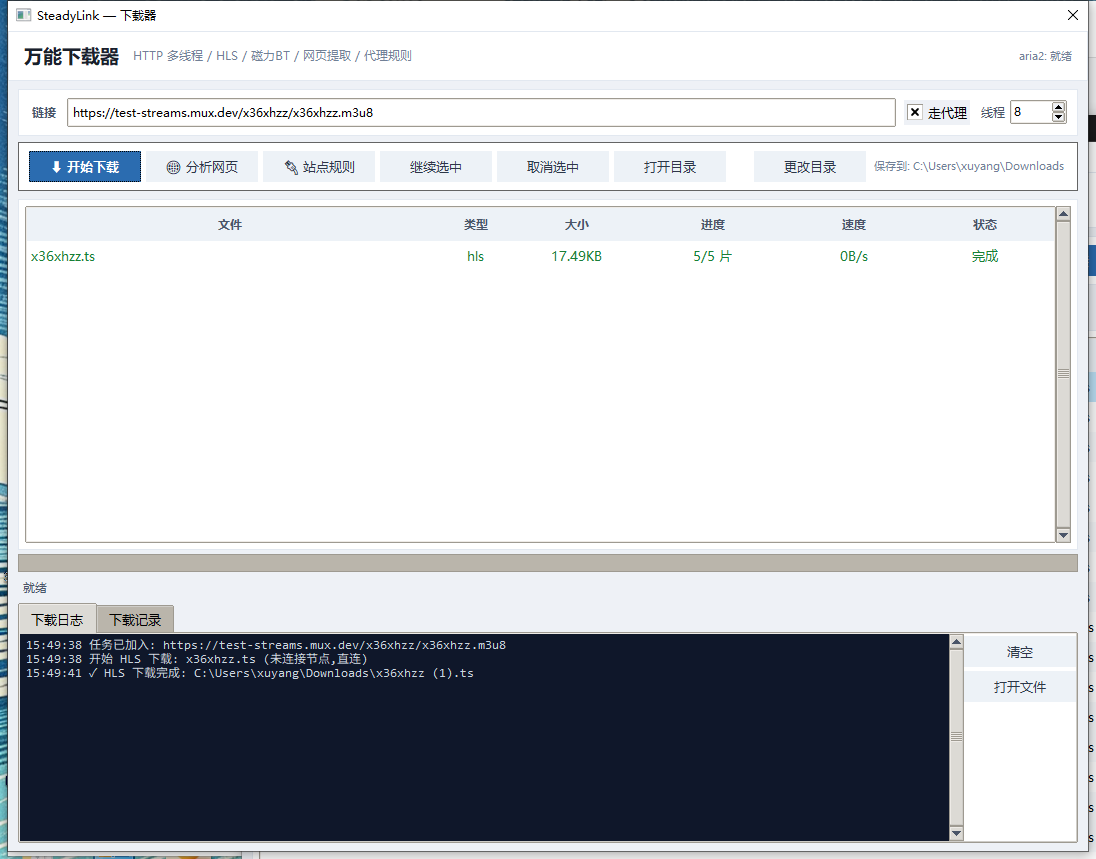
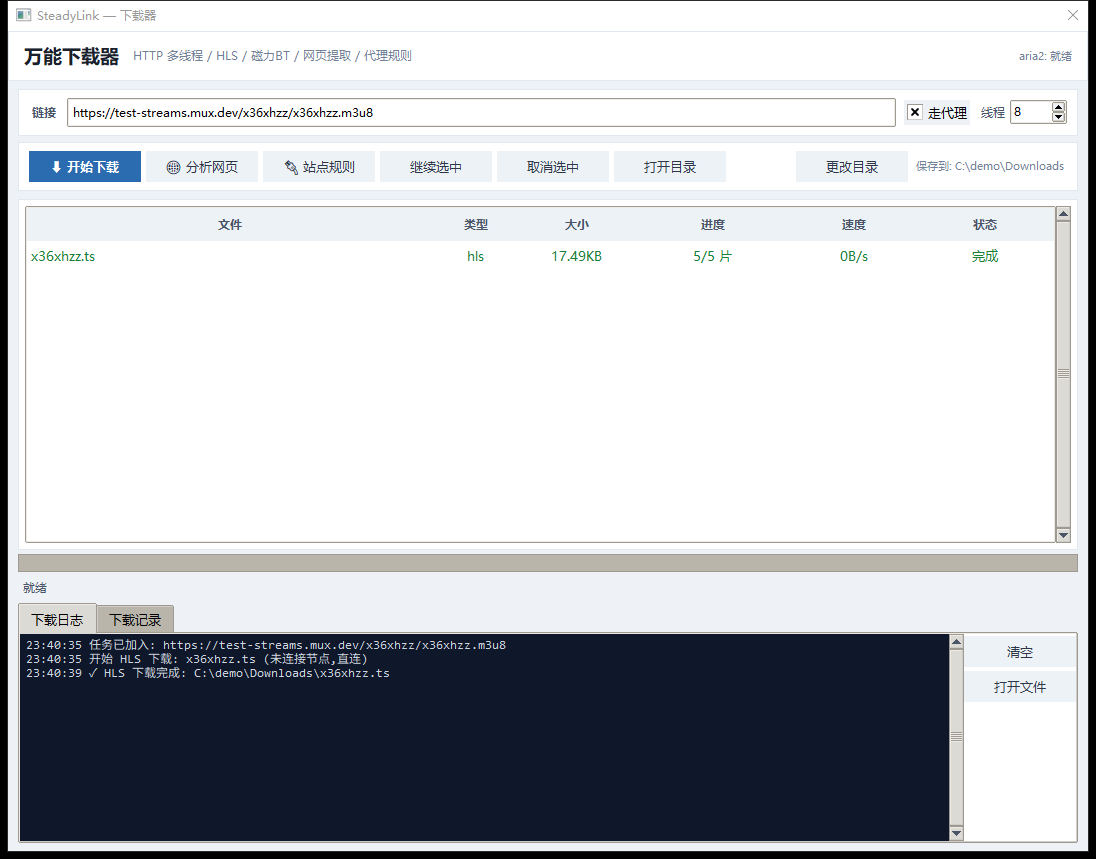
docs: 使用脱敏截图（示例节点数据）；fix: 下载目录不可用时回退到用户 Downloads

Changed region(s): [[0.0, 0.0, 1.0, 1.0], [0.7135, 0.1816, 0.8996, 0.2119], [0.1861, 0.7567, 0.3723, 0.787]]

diff --git a/steadylink.py b/steadylink.py
@@ -1332,7 +1332,11 @@ class DownloaderWindow(tk.Toplevel):
         self.worker = None
         self._last_save = 0
         self.save_dir = app.cfg.get('dl_dir') or os.path.join(os.path.expanduser('~'), 'Downloads')
-        os.makedirs(self.save_dir, exist_ok=True)
+        try:
+            os.makedirs(self.save_dir, exist_ok=True)
+        except Exception:
+            self.save_dir = os.path.join(os.path.expanduser('~'), 'Downloads')
+            os.makedirs(self.save_dir, exist_ok=True)
 
         head = tk.Frame(self, bg=CARD, highlightbackground=BORDER, highlightthickness=1)
         head.pack(fill='x')

diff --git a/README.md b/README.md
@@ -15,7 +15,7 @@
 
 | 主界面 + 实时日志 | 万能下载器 |
 |---|---|
-| ![主界面](docs/screenshots/logs.png) | ![下载器](docs/screenshots/downloader.png) |
+| ![主界面](docs/screenshots/main.png) | ![下载器](docs/screenshots/downloader.png) |
 
 ![站点代理规则](docs/screenshots/rules.png)
 
